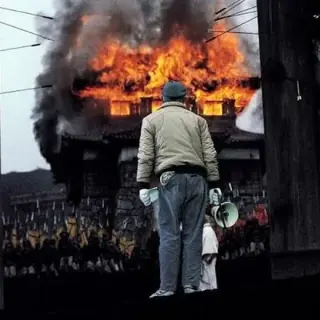
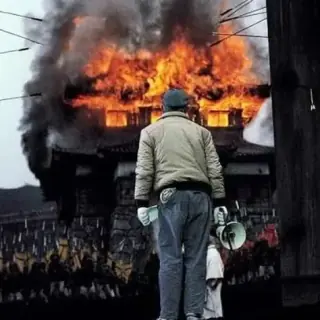
black bars nobody put there, and the envelope before the name
Two pictures shipped with letterbox baked into the file, which no amount
of css can fix because the bar is part of the photograph. Scanned every
image on both pages for near-black rows and columns at the edges:

  lynch.jpg    3 rows of black across the top
  wall/w15     46 rows across the bottom, 9% of a 520px square

Both cropped. w15 came back to square by trimming its sides rather than by
stretching, and now declares its real 474 rather than the 520 the wall
hard-codes for everything — a test caught that mismatch before it shipped,
which is the test doing its job.

While measuring: the hero films are fine. All four render between 1.03x and
1.06x on a 2x screen — correctly resourced, not soft. The one that is soft
is the Lynch still, at 545 css px from a 640px source: 1.7x on retina. That
needs a better frame, not a smaller box, and I am not upscaling it.

And the joke now leads with the instruction. The heading rests as
"dm 📨 klochko" and resolves to "dmytro klochko" when you reach for it —
both in the same grid cell, so the swap is two opacities and the line never
reflows. Touch devices, which have no hover, get the name. The nav and the
footer say "dm me", which is what a nav item is for.

diff --git a/src/styles/dream.css b/src/styles/dream.css
@@ -5863,24 +5863,54 @@ html[data-motion="paused"] .scenes .firelight {
   align-items: start;
 }
 
-/* dm|ytro| klochko. The three dimmed letters are the whole joke: the
-   heading says his name and says what to do with it, and neither reading
-   needs explaining. Not hidden — a name that renders as a typo is worse
-   than no joke — just quiet enough that "dm klochko" arrives first. It
-   comes back up when you look at it. */
-[data-mode="dream"] .dm-ytro {
+/* dm📨 klochko → dmytro klochko.
+   The heading tells you to do something, and when you reach for it, it
+   turns out to have been his name all along. An envelope sits where "ytro"
+   goes; hovering trades one for the other.
+   Both live in the same grid cell so the line never reflows — the swap is
+   two opacities, and the word underneath is the wider of the two, so the
+   envelope has room and nothing shifts when it leaves. */
+[data-mode="dream"] .dm-swap {
+  display: inline-grid;
+  vertical-align: baseline;
+}
+
+[data-mode="dream"] .dm-swap > * {
+  grid-area: 1 / 1;
   font-style: inherit;
   color: inherit;
-  opacity: 0.24;
   transition: opacity var(--dur-slow) var(--ease);
 }
 
-[data-mode="dream"] .card-title:hover .dm-ytro {
-  opacity: 0.62;
+[data-mode="dream"] .dm-mail {
+  justify-self: center;
+  align-self: center;
+  /* Colour, like the flag and the polish and the jolly roger elsewhere on
+     the page. The site's Noto Emoji is subset to four codepoints — a cap, a
+     rocket and two towers — so an envelope was never going to be drawn in
+     it, and pretending otherwise in a font stack that cannot deliver is
+     worse than choosing colour on purpose. */
+  font-size: 0.68em;
+  opacity: 0.92;
 }
 
+[data-mode="dream"] .dm-ytro { opacity: 0; }
+
+[data-mode="dream"] .card-title:hover .dm-mail,
+[data-mode="dream"] .card-title:focus-within .dm-mail { opacity: 0; }
+
+[data-mode="dream"] .card-title:hover .dm-ytro,
+[data-mode="dream"] .card-title:focus-within .dm-ytro { opacity: 0.42; }
+
+/* Reduced motion keeps the joke and drops the crossfade. Touch has no
+   hover, so the name is what everyone else already reads. */
 @media (prefers-reduced-motion: reduce) {
-  [data-mode="dream"] .dm-ytro { transition: none; }
+  [data-mode="dream"] .dm-swap > * { transition: none; }
+}
+
+@media (hover: none) {
+  [data-mode="dream"] .dm-mail { opacity: 0; }
+  [data-mode="dream"] .dm-ytro { opacity: 0.42; }
 }
 
 [data-mode="dream"] .pr-quote {
